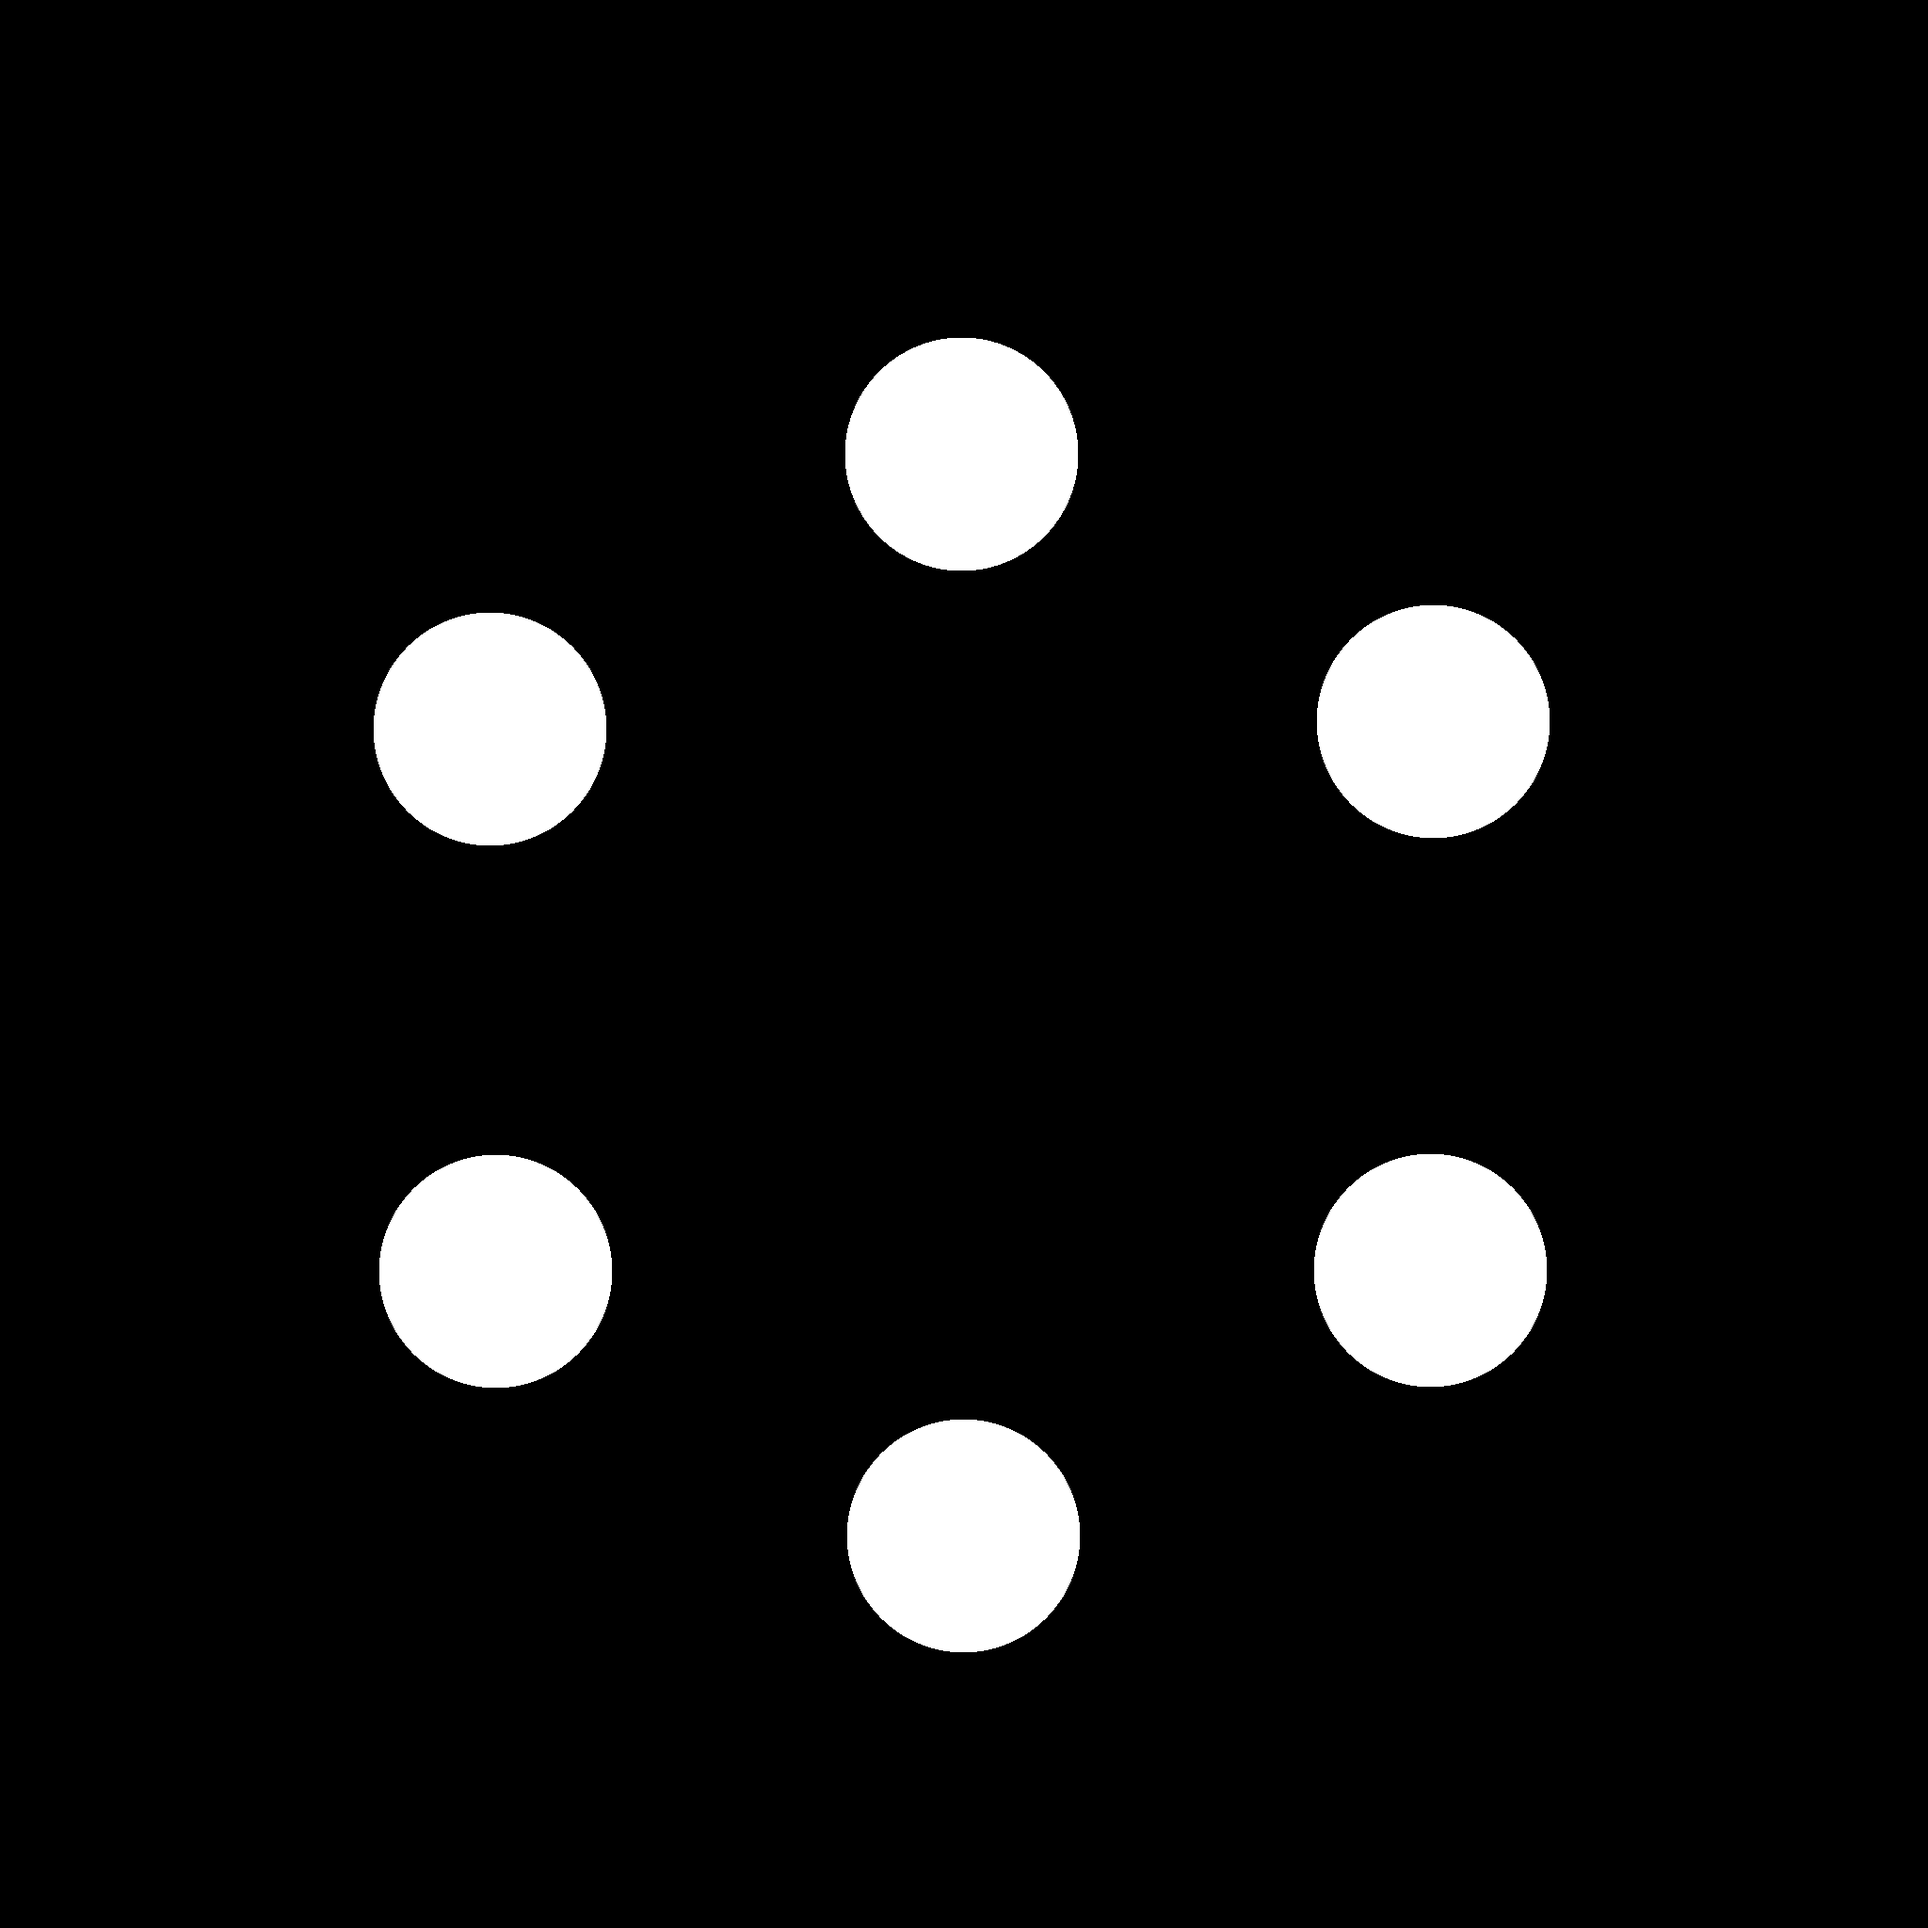
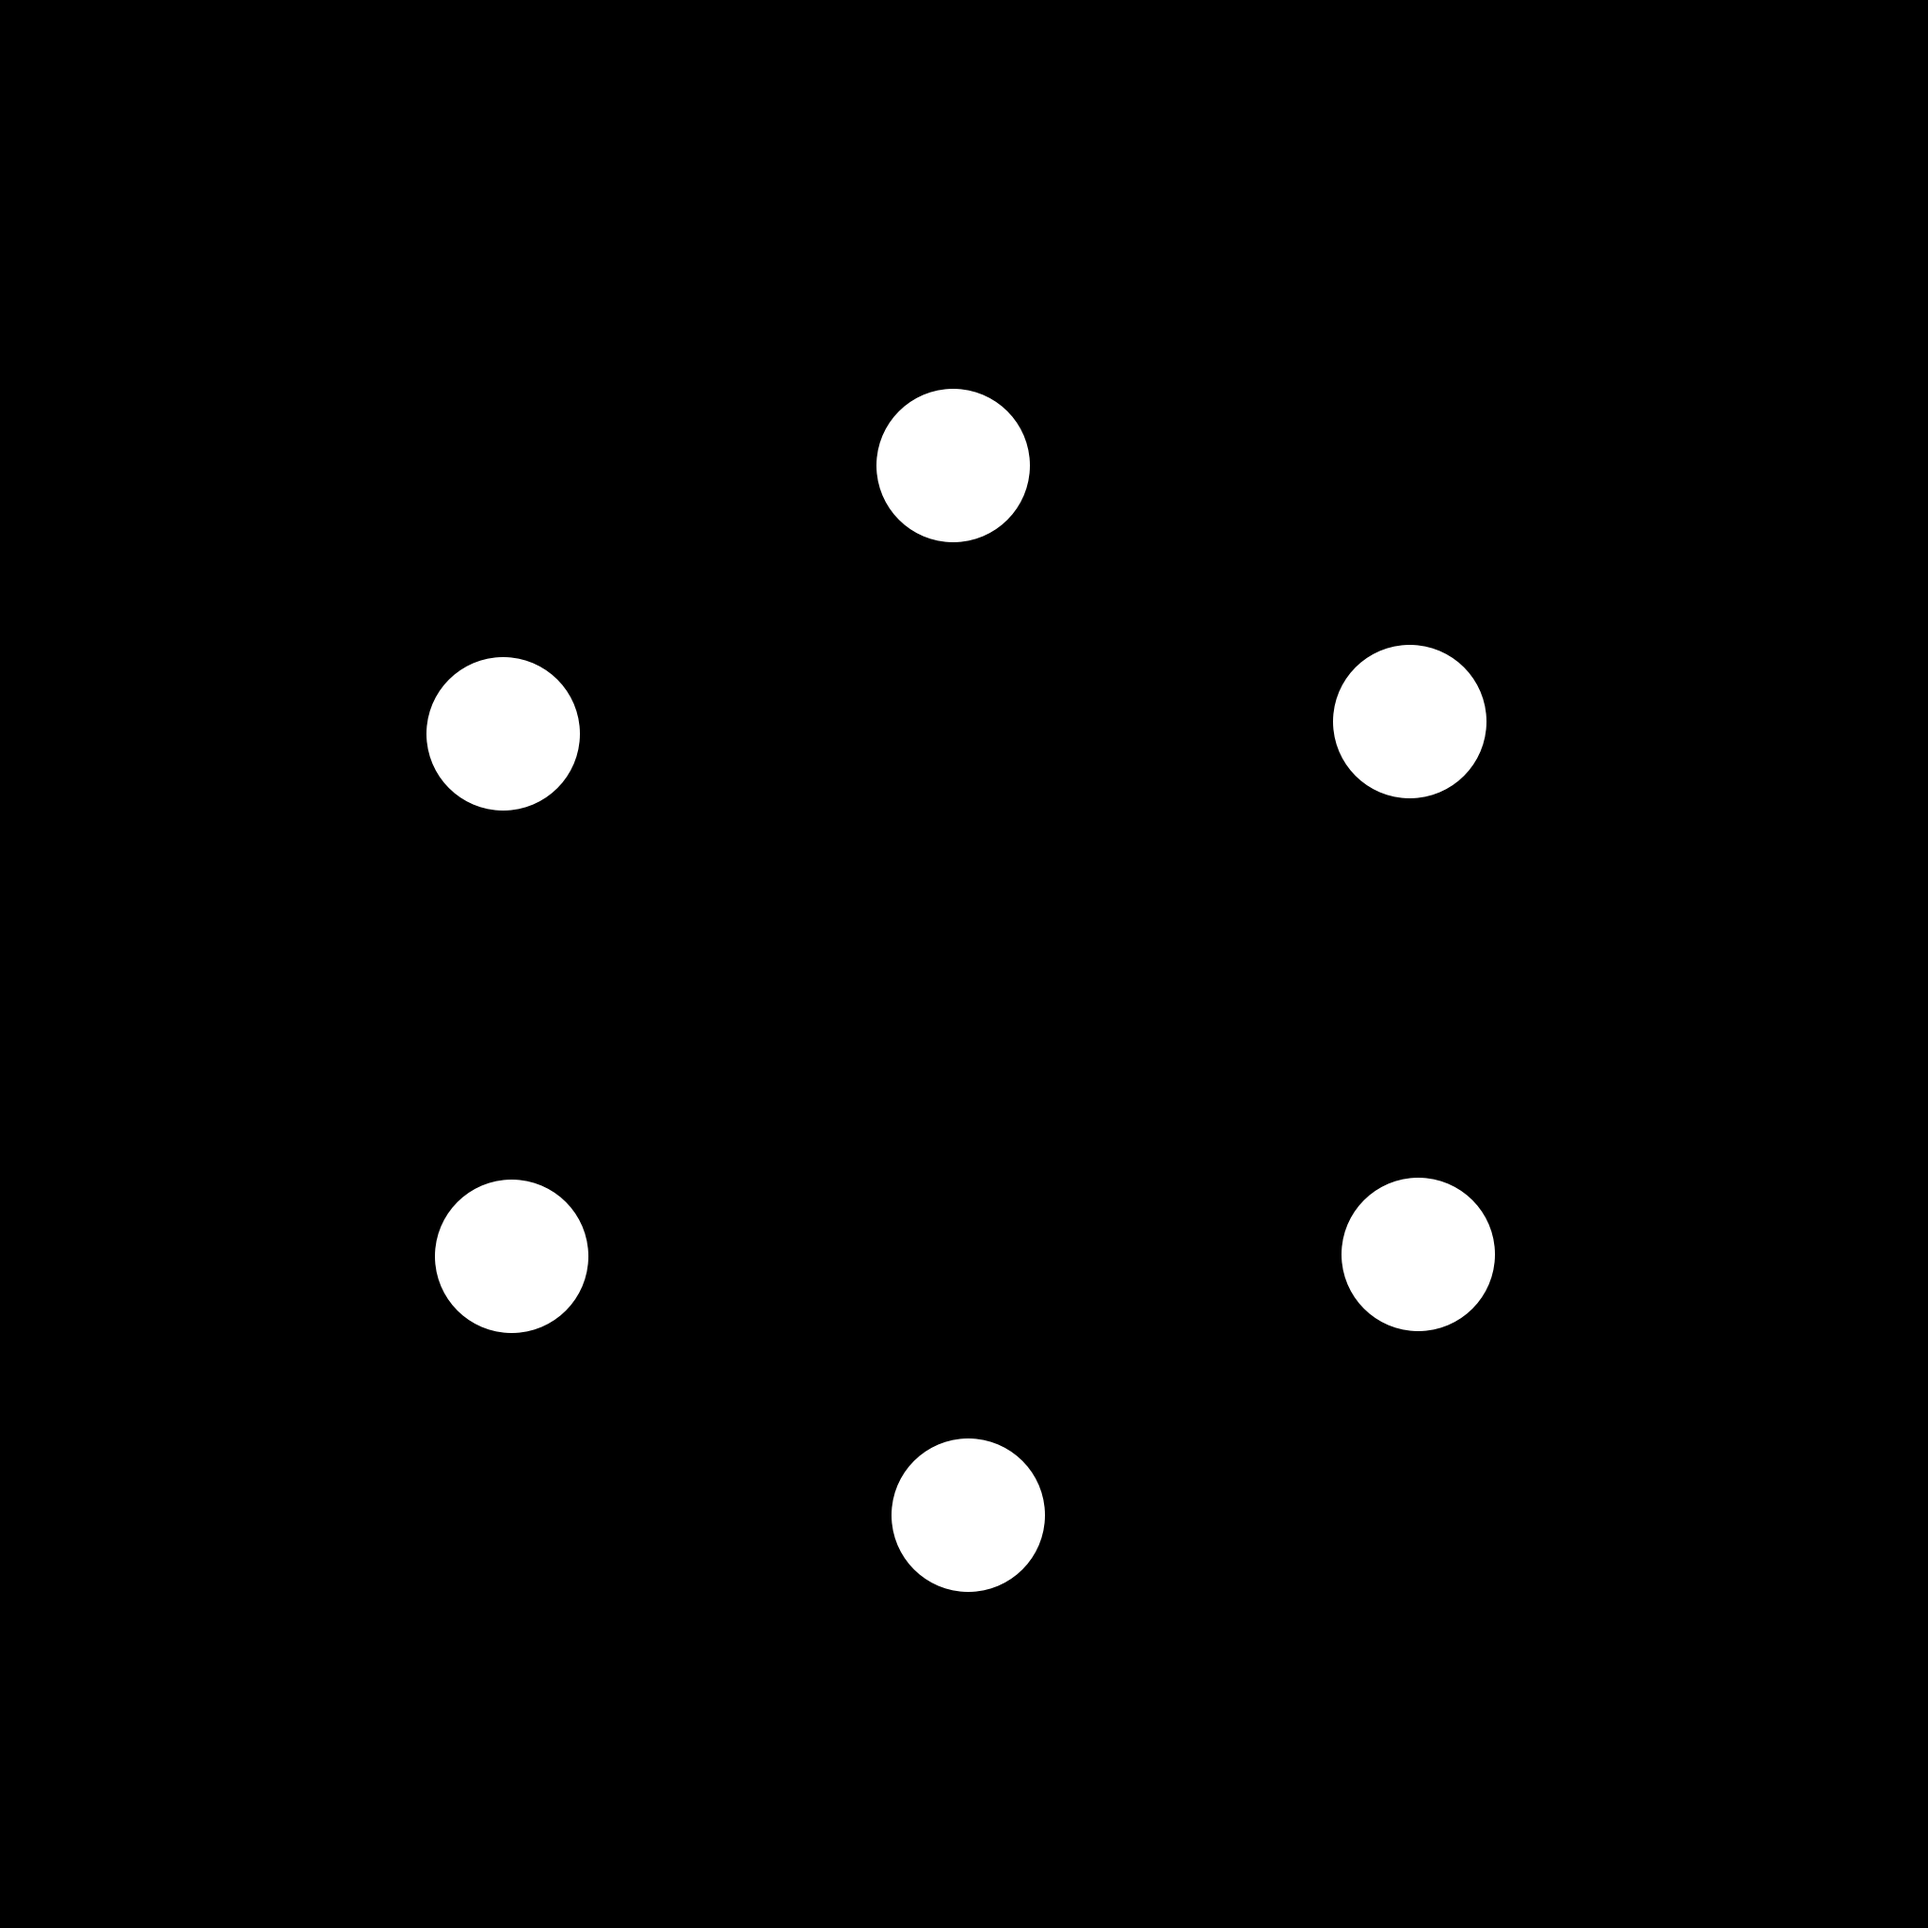
improved background image registration

diff --git a/fly_tracking/fly_detection.py b/fly_tracking/fly_detection.py
@@ -3,20 +3,16 @@
 # Date: May 7, 2026
 # Version: 1.1
 
-import numpy as np
-import cv2
-
-import threading
-import os
-
-from multiprocessing import Process, JoinableQueue, Queue
-from multiprocessing import shared_memory
-
-from scipy.stats import chi2
-from math import radians, degrees
-
-import json
 import gzip
+import json
+import os
+import threading
+from math import degrees, radians
+from multiprocessing import JoinableQueue, Process, shared_memory
+
+import cv2
+import numpy as np
+from scipy.stats import chi2
 
 N_MAX_OBJS_PER_FRAME = 50
 N_WORKERS = 4
@@ -34,6 +30,7 @@ TAG_2_FILE = "flytracking/patterns/tag_2.png"
 HOLE_PATTERN_FILE = "flytracking/patterns/hole_pattern.png"
 HOLES_MASK_FILE = "flytracking/patterns/holes_mask.png"
 HOLE_LABELS = [6, 1, 2, 3, 4, 5]
+MORPH_KERNEL_HOLES = cv2.getStructuringElement(cv2.MORPH_ELLIPSE, [20, 20])
 
 
 def cart2pol(x, y):
@@ -75,8 +72,14 @@ def register_background_coordinates(video_path: str, out_dir: str, overwrite: bo
     bg_img_corner = bg_img[int(bg_w * 0.75) :, int(bg_h * 0.75) :]
 
     holes_mask = holes_mask[
-        int(hole_pattern_offset[0]) : int(bg_w - hole_pattern_offset[0]) + 1,
-        int(hole_pattern_offset[1]) : int(bg_h - hole_pattern_offset[1]) + 1,
+        int(hole_pattern_offset[0] + 1024 - bg_w / 2) : int(
+            bg_w - hole_pattern_offset[0] + 1024 - bg_w / 2
+        )
+        + 1,
+        int(hole_pattern_offset[1] + 1024 - bg_h / 2) : int(
+            bg_w - hole_pattern_offset[1] + 1024 - bg_h / 2
+        )
+        + 1,
     ]
 
     res_1 = np.max(cv2.matchTemplate(bg_img_corner, tag_1, cv2.TM_CCOEFF_NORMED))
@@ -90,8 +93,11 @@ def register_background_coordinates(video_path: str, out_dir: str, overwrite: bo
     coordinates.update({"plate_id": plate})
 
     holes = cv2.matchTemplate(bg_img, hole_pattern, cv2.TM_CCOEFF_NORMED)
-    holes[holes < 0.25] = 0
+    holes[holes < 0.2] = 0
+    holes = holes * holes_mask
+    holes = holes == cv2.dilate(holes, MORPH_KERNEL_HOLES, iterations=20)
     holes = (holes * holes_mask).astype(np.uint8)
+    holes = cv2.dilate(holes, MORPH_KERNEL, iterations=1)
     contours, _ = cv2.findContours(
         holes,
         cv2.RETR_LIST,
@@ -132,7 +138,7 @@ def register_background_coordinates(video_path: str, out_dir: str, overwrite: bo
     cv2.putText(
         bg_img_overlay,
         "plate: " + str(plate),
-        [1700, 100],
+        [1600, 100],
         cv2.FONT_HERSHEY_SIMPLEX,
         2,
         (0, 0, 0),
